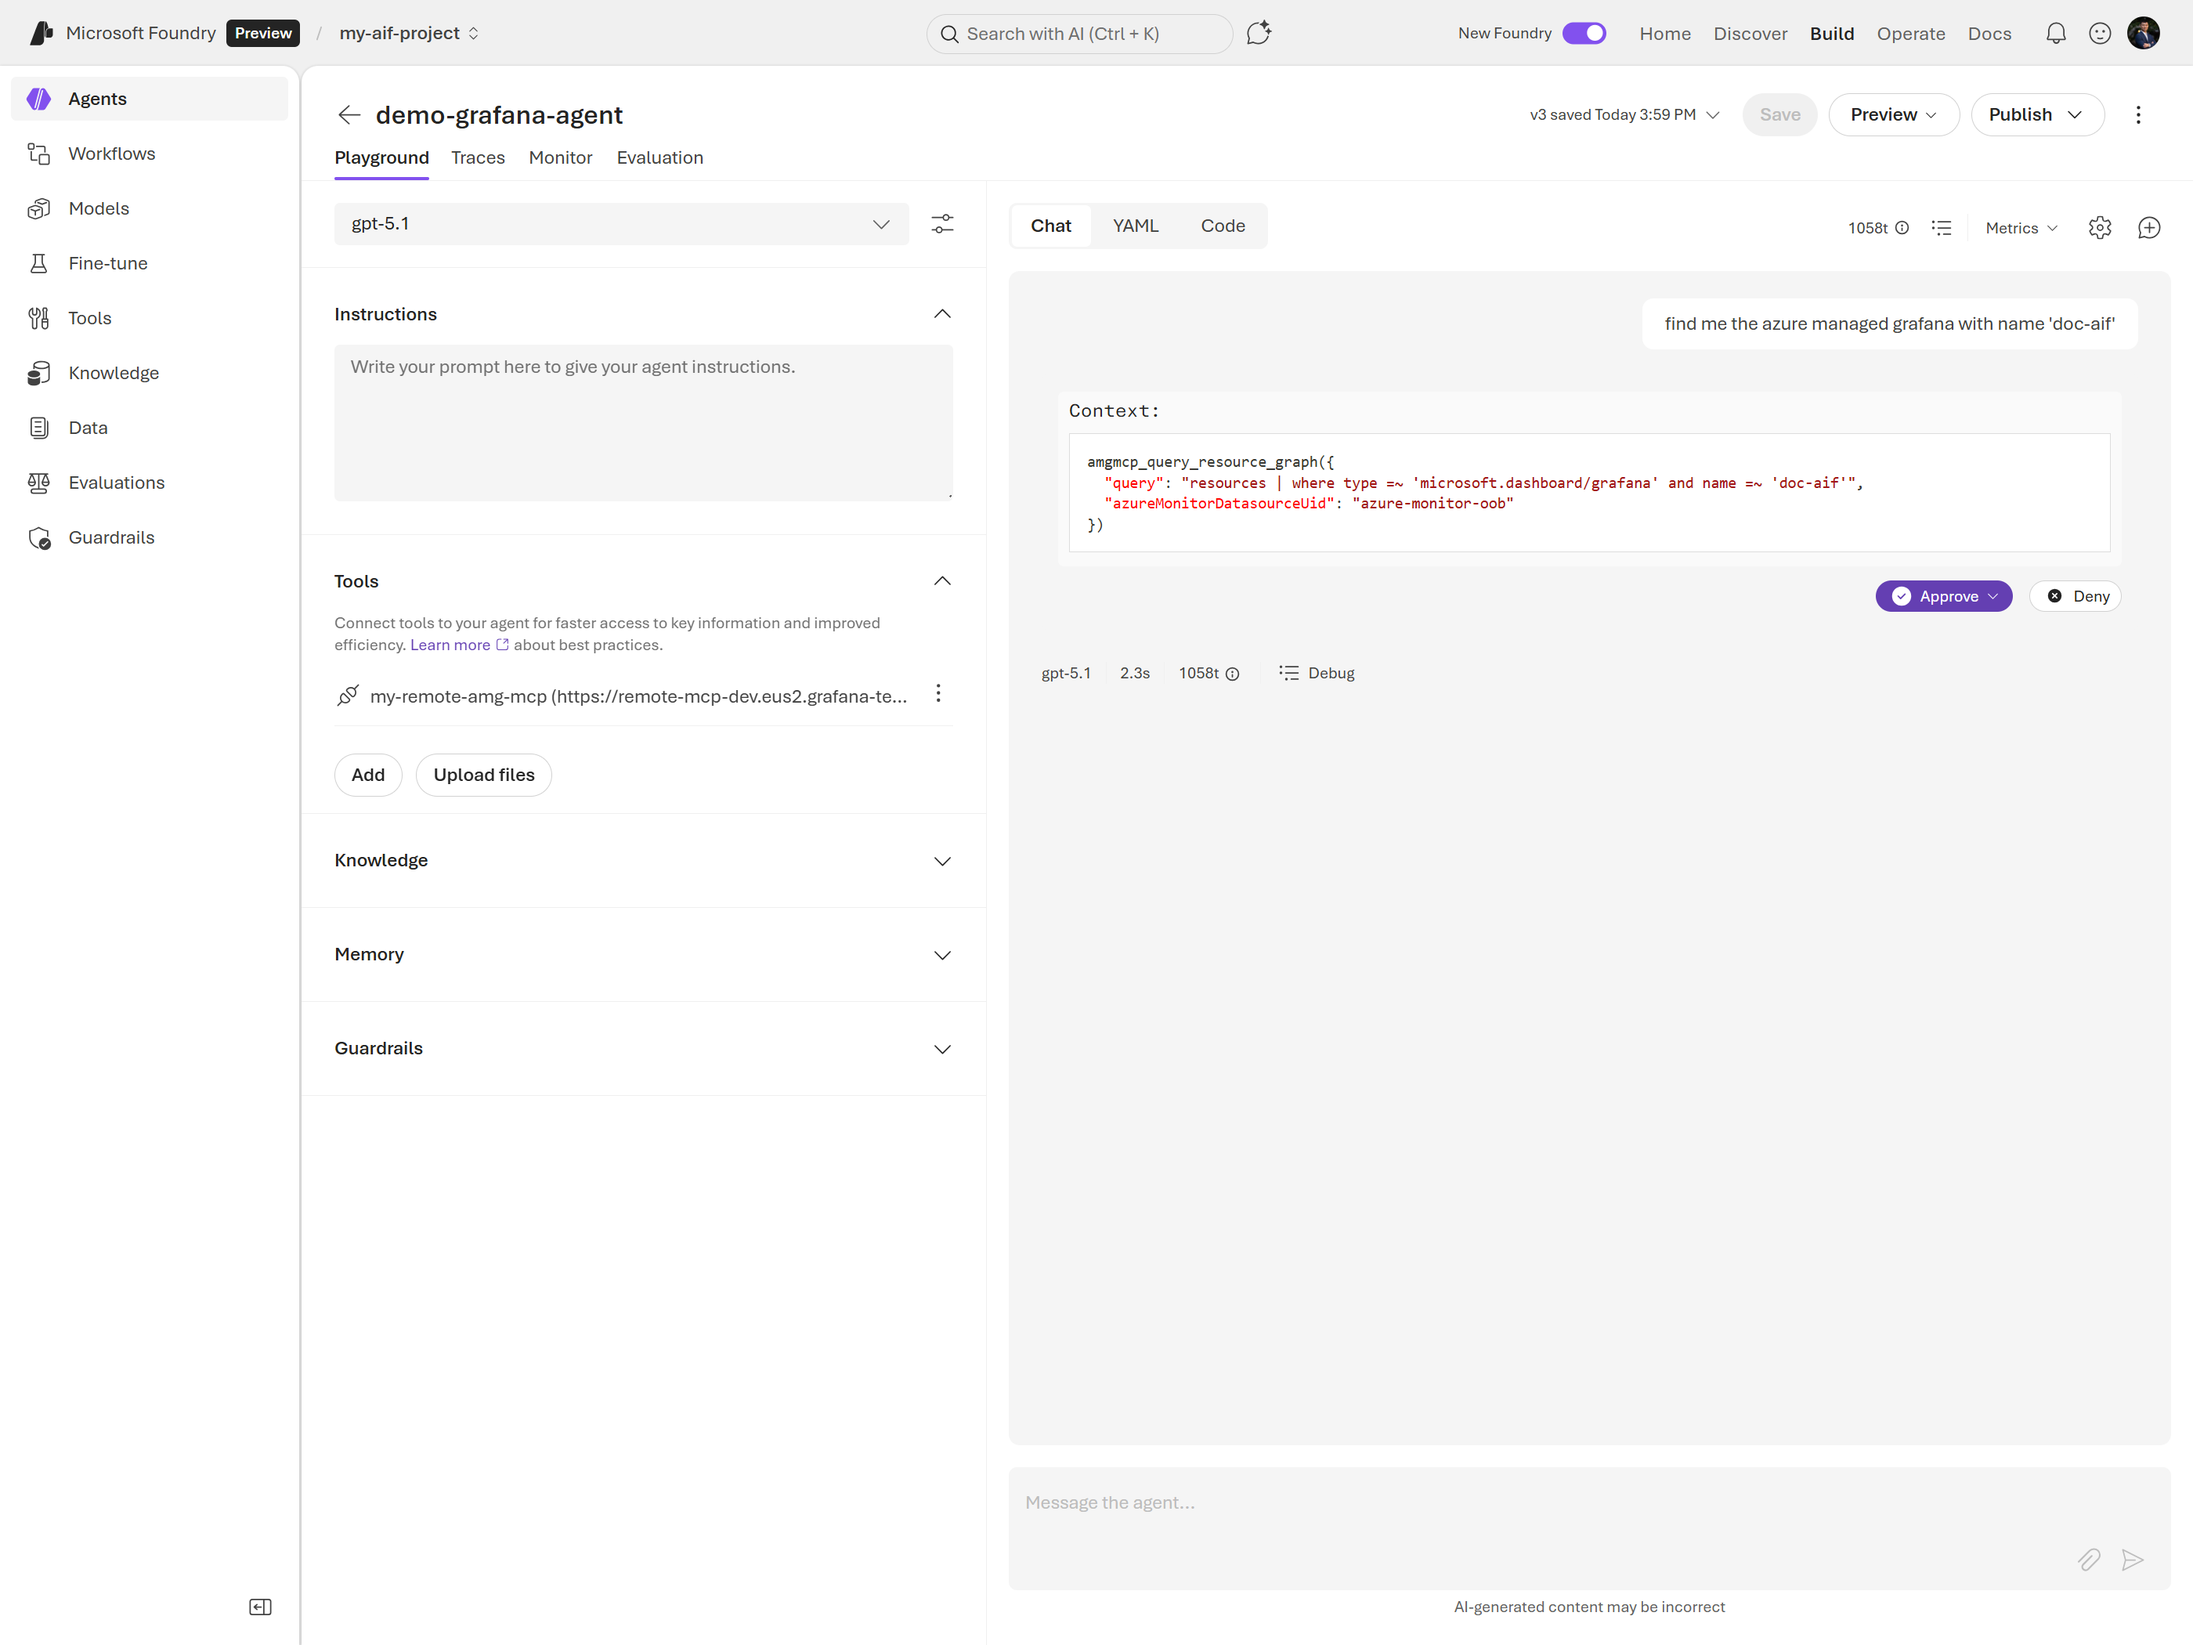
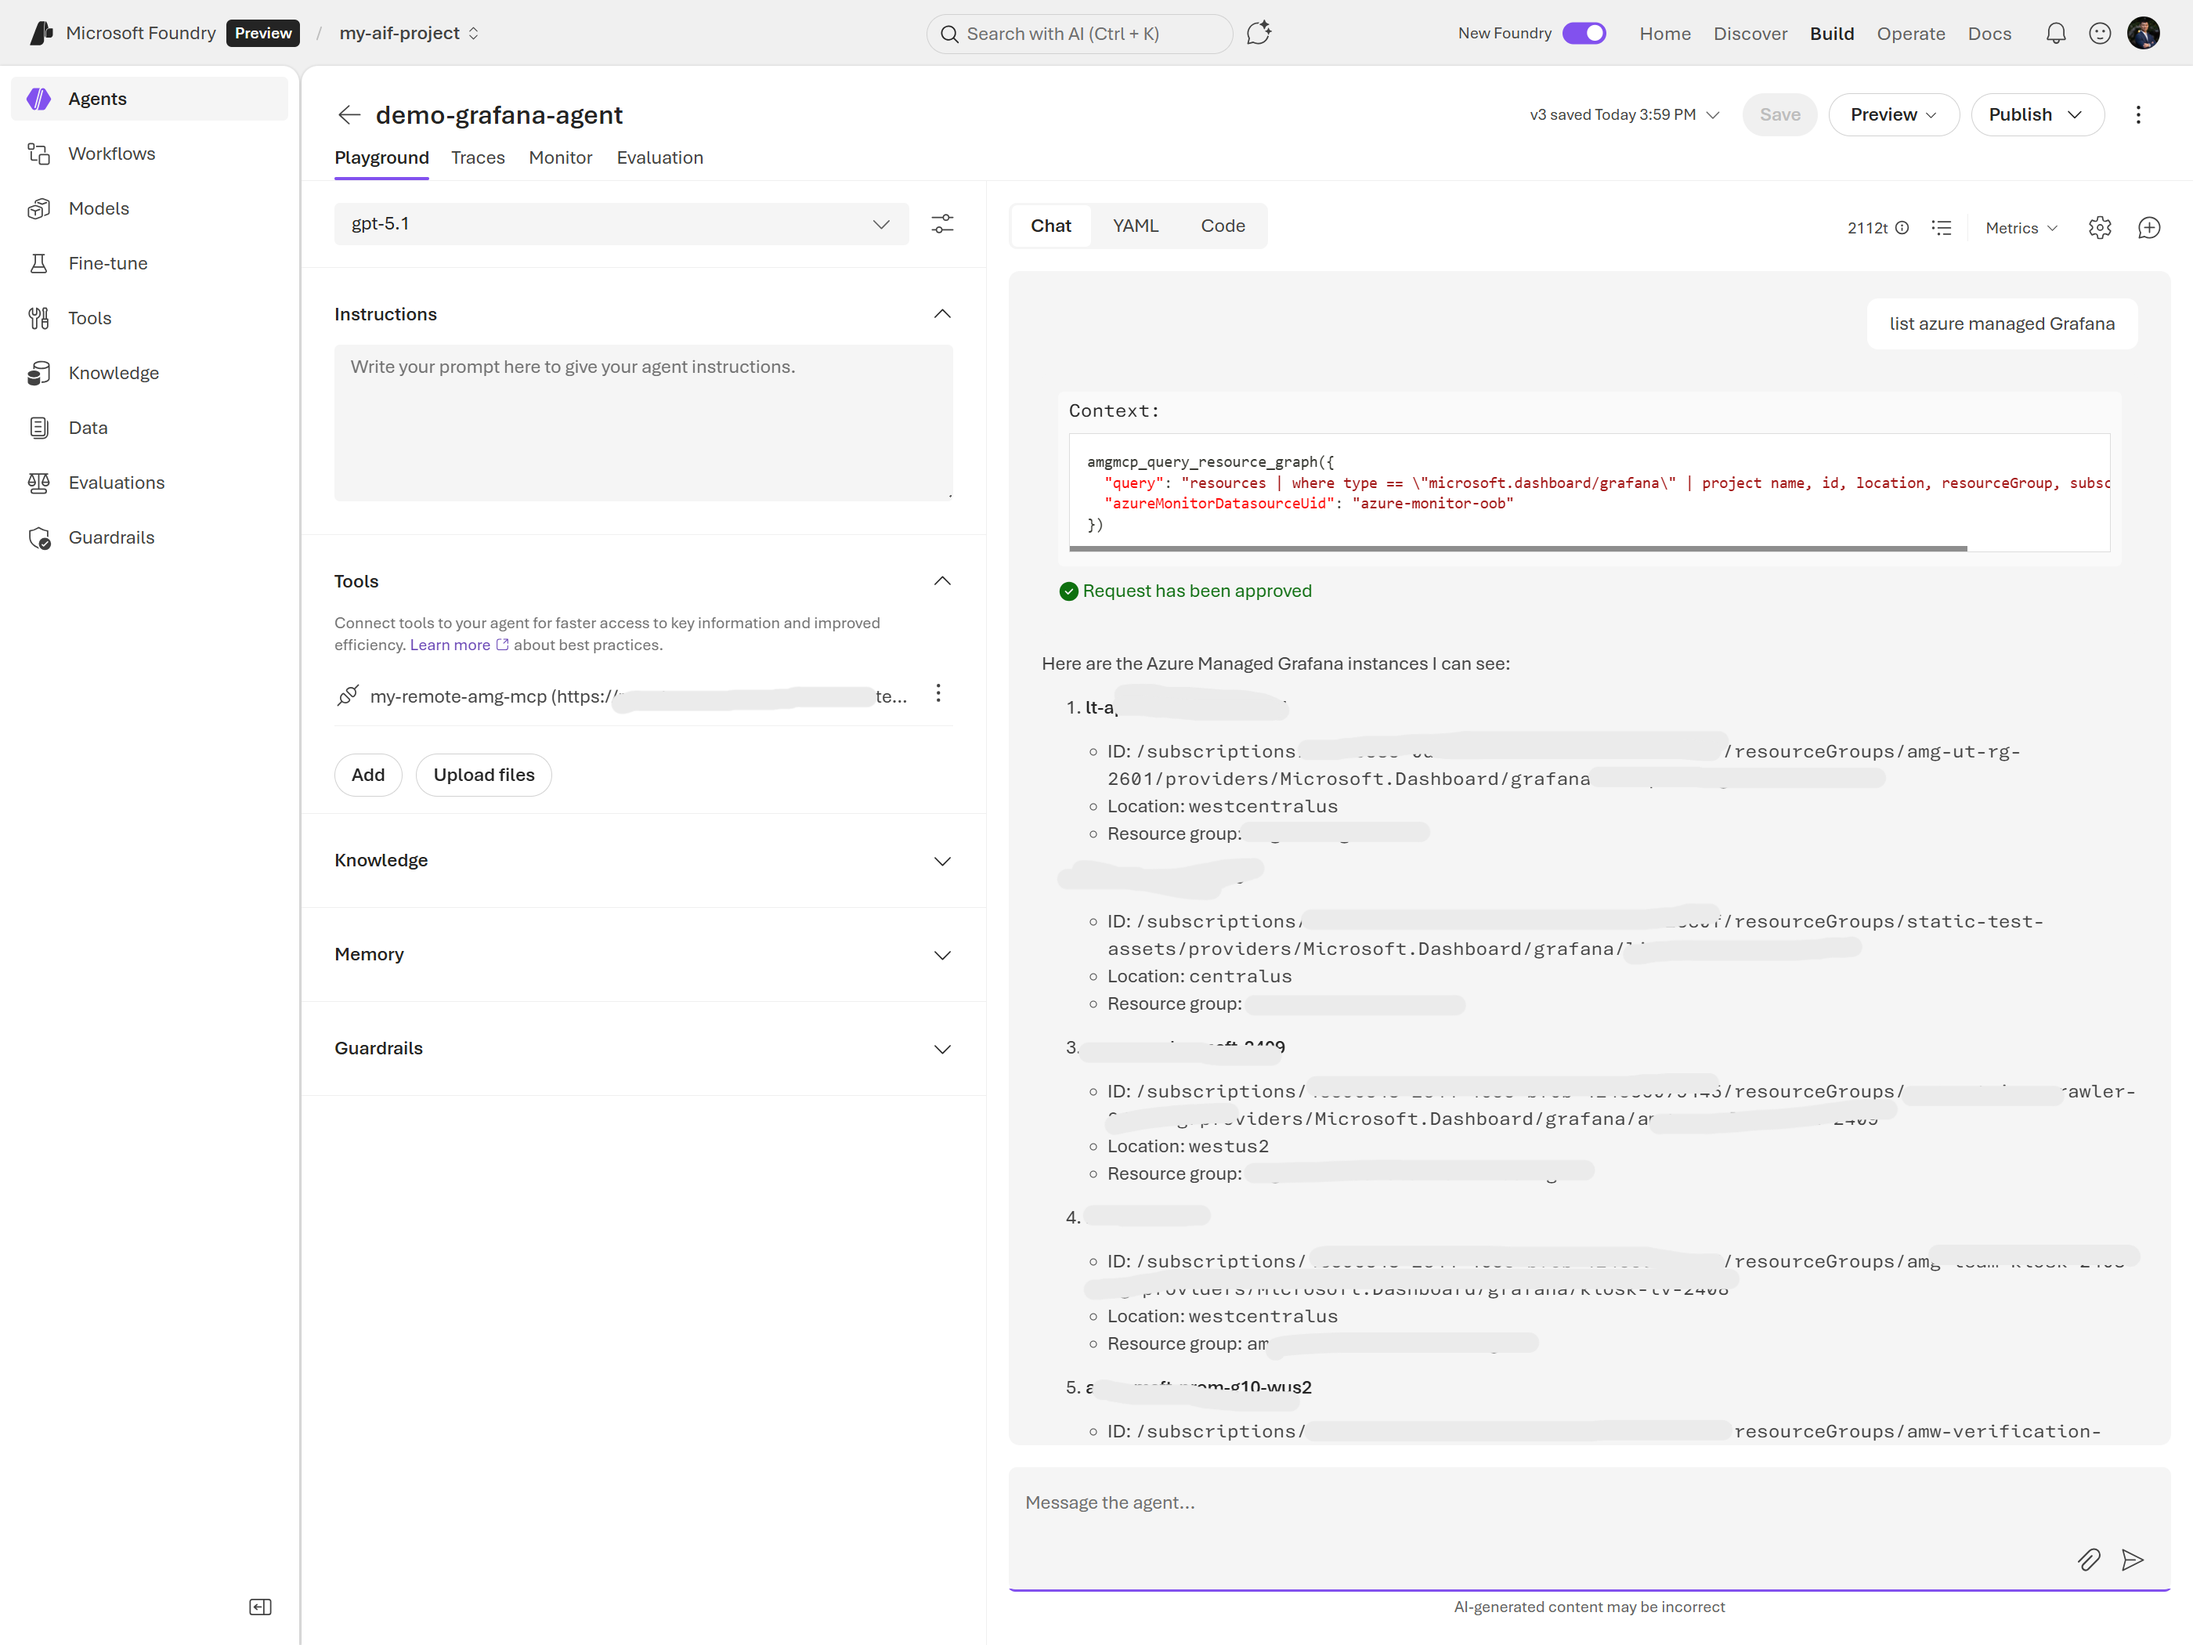
Enhance Foundry agent documentation with additional images and steps for configuring Azure Managed Grafana

diff --git a/samples/3-remote-mcp-foundry-agent/foundry-agent-amg-mcp.md b/samples/3-remote-mcp-foundry-agent/foundry-agent-amg-mcp.md
@@ -9,11 +9,26 @@ Prerequisites:
 ## Step 1: Set Up Azure Managed Grafana
 In the Azure portal, create a new Azure Managed Grafana instance if you haven't already. In the resource overview, find out the endpoint URL for your Grafana instance, as you will need it later. e.g. `https://my-doc-amg-dvgbauhma2esangn.wus2.grafana.azure.com`
 
+![Find AMG Endpoint](1-find-amg-endoint.png)
+
 ## Step 2: Grant Access to Foundry
 In the Grafana's `Access Control (IAM)` settings, add the necessary permissions for your Foundry environment to access the Grafana instance. e.g. You can grant `Grafana Admin` role to the managed identity used by your Foundry project.
+
+![Add RBAC](2-add-rbac.png)
 
 ## Step 3: Create Foundry Agent
 You can create a new Foundry agent with a model that supports tools.
 
+![Create New Agent](3-create-new-agent.png)
+
 ## Step 4: Add AMG-MCP Tool to the Agent
 You can create a new tool in the 'Tools' section of your Foundry agent configuration. Then choose `Custom` and select `Model Context Protocol (MCP)` as the tool type.
+
+![Agent Add MCP](4-agent-add-mcp.png)
+
+![MCP Config](5-mcp-config.png)
+
+## Step 5: Test the Agent
+Once the MCP tool is configured, you can test the agent by triggering a resource graph query. Like a sample prompt 'list azure managed Grafana'.
+
+![Agent Trigger Resource Graph](6-agent-trigger-resource-graph.png)
